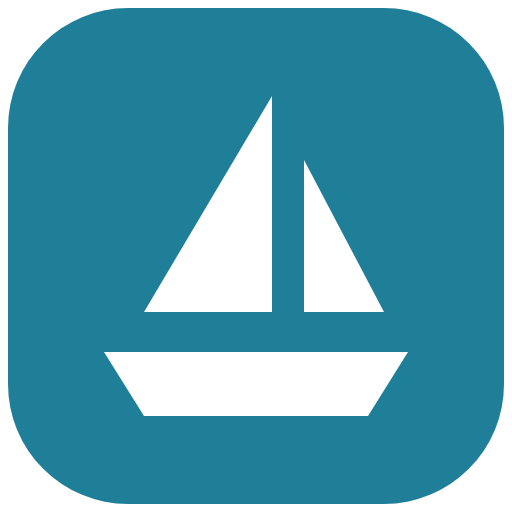
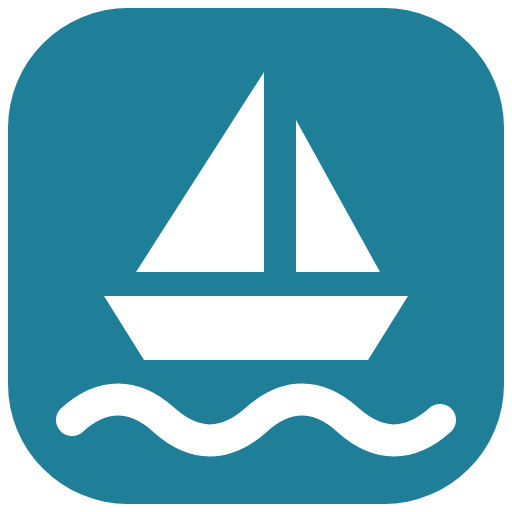
umi のアイコンに波を足す（帆船＋波で海と分かるように）

Changed region(s): [[0.0938, 0.1562, 0.9062, 0.9062]]

diff --git a/icons.js b/icons.js
@@ -27,8 +27,8 @@ const APP = {
   kaze: ["#3E73C2", R(12, 20, 30, 7, 3.5) + R(22, 31, 30, 7, 3.5) + R(12, 42, 20, 7, 3.5)],
   // sora＝空（マーケティングダッシュボード）。白く塗った雲（2026-11-17 河島さん「sora のアイコンとファビコンも」）
   sora: ["#3BA0DC", C(24, 37, 8) + C(35, 30, 12) + C(45, 37, 7.5) + R(16, 35, 37, 10, 5)],
-  // umi＝海（海外ダッシュボード）。白く塗った帆船＝海を渡って世界へ（2026-11-17 河島さん「umi のショートカットのアイコンとファビコンを」）。色は切り替えの umi の色
-  umi: ["#1F7F99", F("M34 12v27H18z") + F("M38 20l10 19H38z") + F("M13 44h38l-5 8H18z")],
+  // umi＝海（海外ダッシュボード）。白く塗った帆船＋波＝海を渡って世界へ（2026-11-17 河島さん「umi のショートカットのアイコンとファビコンを」。11/19 波を足して海と分かるように）。色は切り替えの umi の色
+  umi: ["#1F7F99", F("M33 9v25H17z") + F("M37 15l10.5 19H37z") + F("M13 37h38l-5 8H18z") + S("M9 52.5c3.8-3.4 7.7-3.4 11.5 0s7.7 3.4 11.5 0 7.7-3.4 11.5 0 7.7 3.4 11.5 0", 4)],
   // kagi＝鍵（freee登録チェック。Know Accounts, Grow Impact）。白い線の鍵（2026-11-18 河島さん「この鍵のアイコンも作っておいて」）。色は切り替えの色
   kagi: ["#5B57A6", `<circle cx="24" cy="25" r="10" fill="none" stroke="${W}" stroke-width="6"/>` + S("M31.5 32.5L50 51M42.5 43.5l-5.5 5.5M49 50l-4.5 4.5", 6)],
   // tane＝種（商品企画・売れ筋リサーチ。Trend And Needs Explorer）。白く塗った種から出た芽（2026-11-17 河島さん「同じようにロゴも」）。色は若葉
